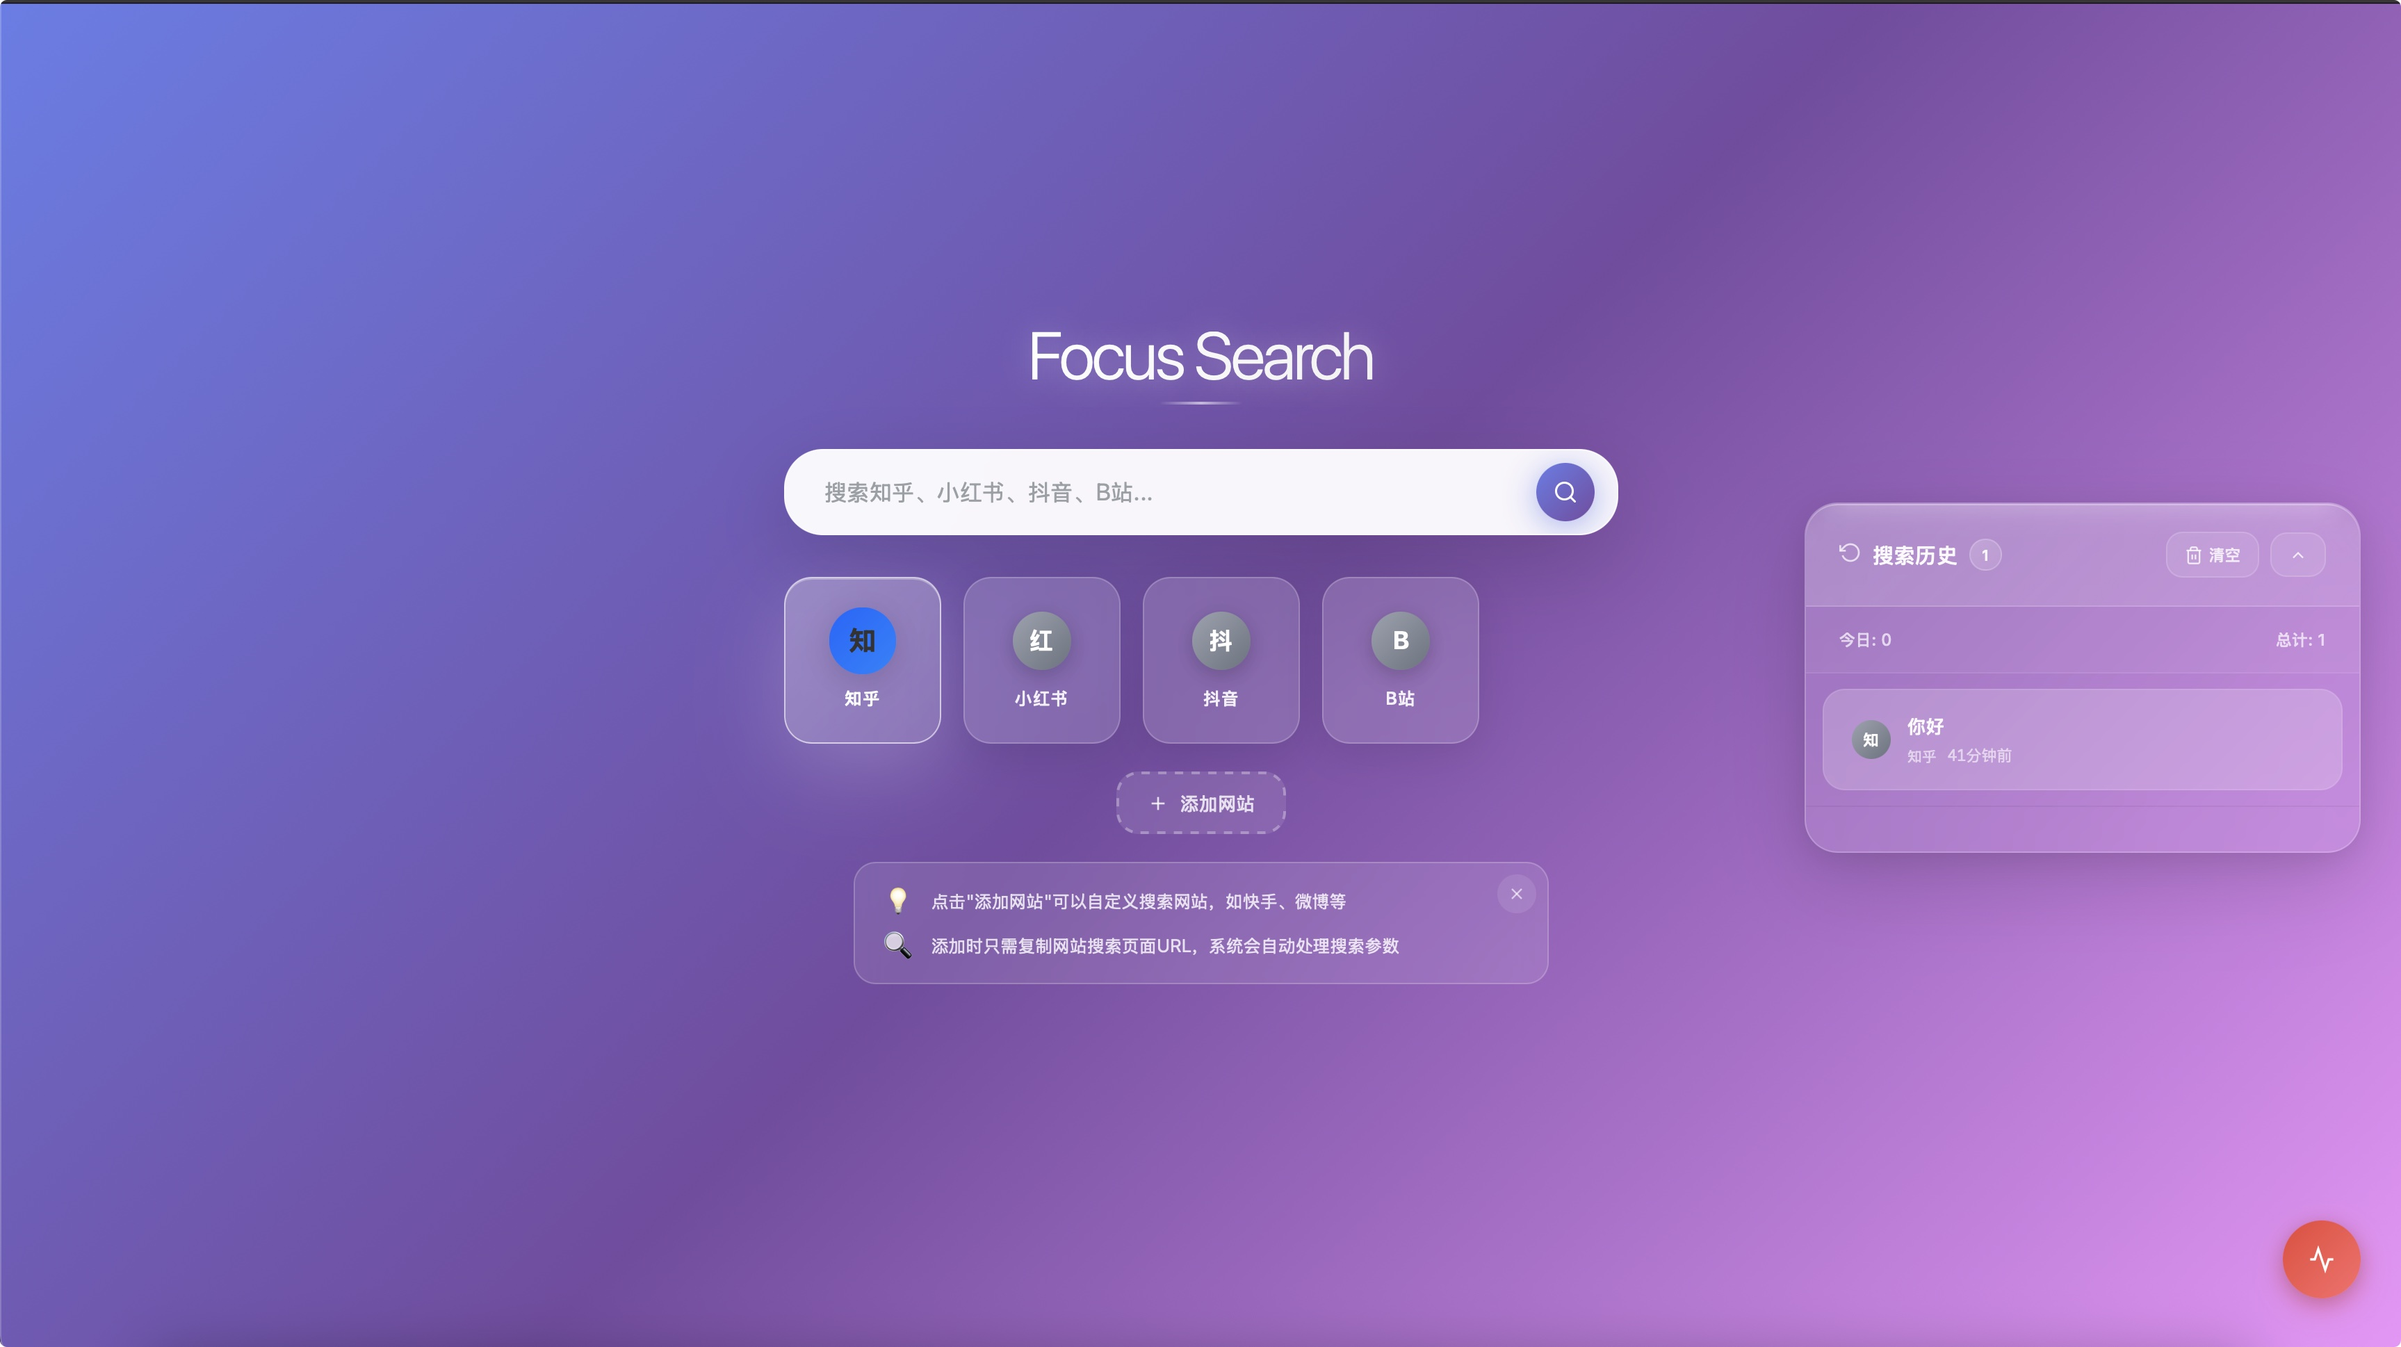
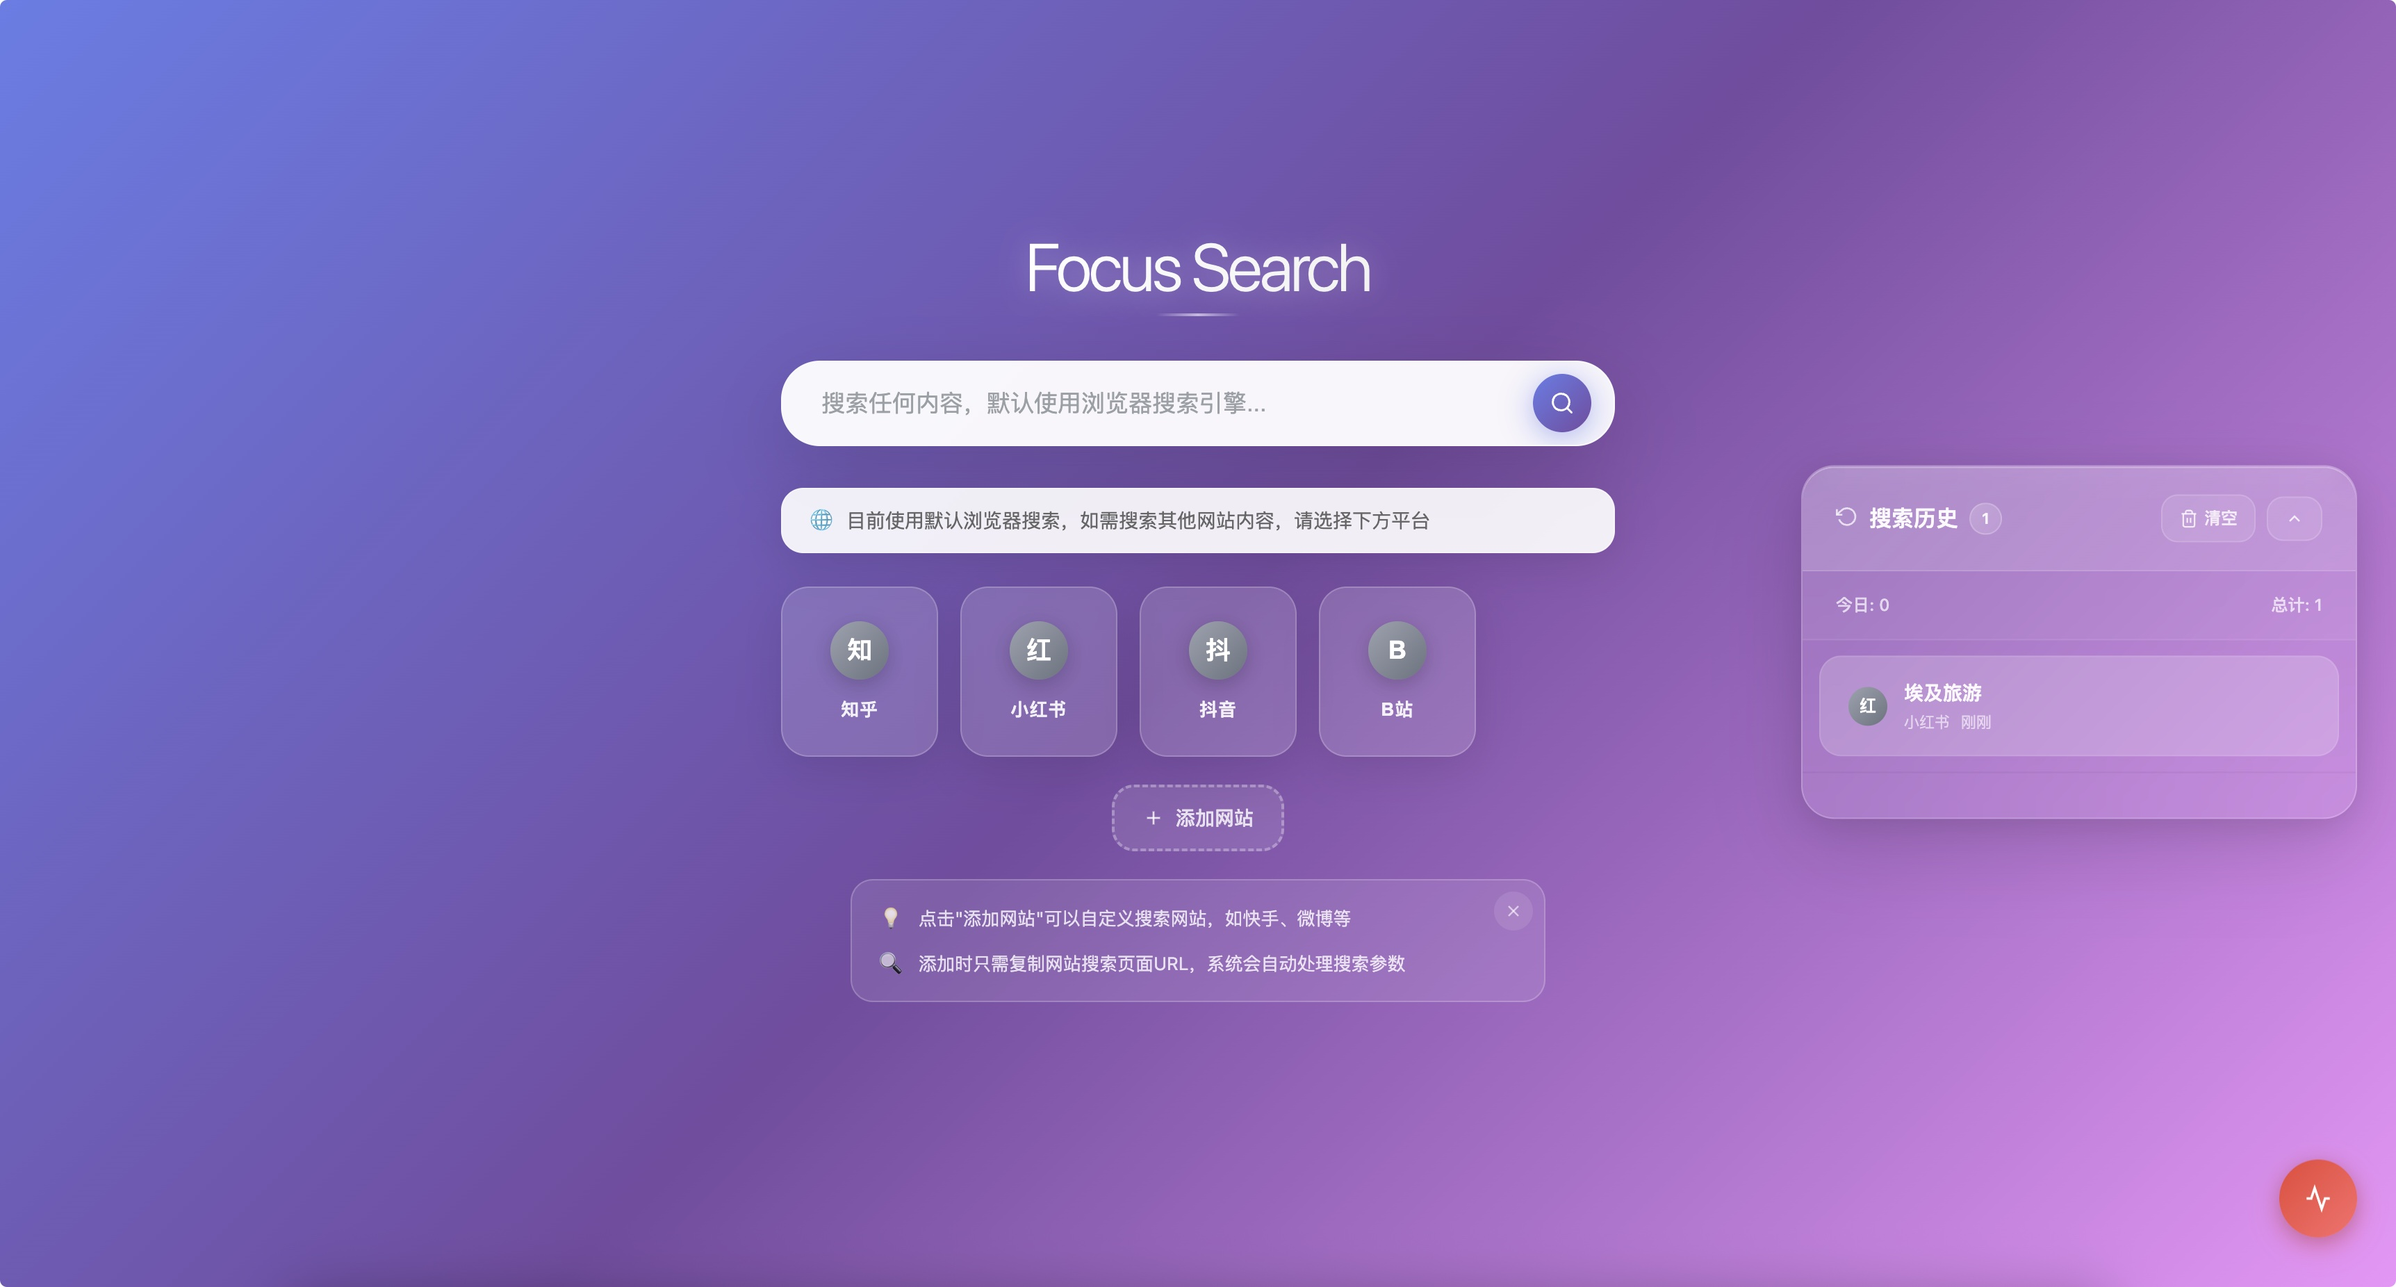
add default search

diff --git a/newtab.js b/newtab.js
@@ -24,8 +24,8 @@ let SEARCH_SITES = { ...DEFAULT_SITES };
 // DOM 元素
 let searchInput, searchBtn, clearAllBtn, historyList, historyPanel, historyContent, historyToggle, collapseBtn, historyCount, todayCount, totalCount, loadMoreBtn;
 let addSiteBtn, addSiteModal, modalClose, modalCancel, modalConfirm, siteNameInput, siteUrlInput, siteIconInput;
-let guideTips, hideTipsBtn, restoreDefaultBtn;
-let currentSite = 'zhihu';
+let guideTips, hideTipsBtn, restoreDefaultBtn, searchHint;
+let currentSite = null; // 默认不选择任何搜索平台，使用默认搜索引擎
 let selectedColor = '#ff6b35';
 
 // 初始化
@@ -71,6 +71,9 @@ function initializeElements() {
     guideTips = document.getElementById('guideTips');
     hideTipsBtn = document.getElementById('hideTipsBtn');
     restoreDefaultBtn = document.getElementById('restoreDefaultBtn');
+    
+    // 搜索提示框
+    searchHint = document.getElementById('searchHint');
 }
 
 // 加载自定义网站和处理隐藏的默认网站
@@ -90,13 +93,8 @@ function loadCustomSites() {
         // 合并可见的默认网站和自定义网站
         SEARCH_SITES = { ...visibleDefaultSites, ...customSites };
         
-        // 如果当前选中的网站被隐藏了，切换到第一个可用的网站
-        if (!SEARCH_SITES[currentSite]) {
-            const availableSites = Object.keys(SEARCH_SITES);
-            if (availableSites.length > 0) {
-                currentSite = availableSites[0];
-            }
-        }
+        // 保持默认状态：不选择任何网站
+        currentSite = null;
         
         renderSiteGrid();
     });
@@ -130,7 +128,7 @@ function renderSiteGrid() {
 function updateActiveState() {
     document.querySelectorAll('.site-card').forEach(btn => {
         const icon = btn.querySelector('.site-icon');
-        if (btn.dataset.site === currentSite) {
+        if (btn.dataset.site === currentSite && currentSite !== null) {
             btn.classList.add('active');
             if (icon.classList.contains('custom-site-icon')) {
                 const originalColor = icon.dataset.originalColor;
@@ -145,6 +143,28 @@ function updateActiveState() {
             }
         }
     });
+    
+    // 更新搜索提示框
+    updateSearchHint();
+}
+
+// 更新搜索提示框
+function updateSearchHint() {
+    if (!searchHint) return;
+    
+    const hintText = searchHint.querySelector('.hint-text');
+    const hintIcon = searchHint.querySelector('.hint-icon');
+    
+    if (currentSite && SEARCH_SITES[currentSite]) {
+        // 选择了特定平台
+        const siteName = SEARCH_SITES[currentSite].name;
+        hintText.textContent = `当前搜索平台：${siteName}，点击其他平台可切换搜索`;
+        hintIcon.textContent = '🎯';
+    } else {
+        // 使用默认搜索
+        hintText.textContent = '目前使用默认浏览器搜索，如需搜索其他网站内容，请选择下方平台';
+        hintIcon.textContent = '🌐';
+    }
 }
 
 // 创建自定义网站卡片
@@ -213,6 +233,9 @@ function setupSiteCardListeners() {
             
             // 更新当前选择的网站
             currentSite = this.dataset.site;
+            
+            // 更新搜索提示框
+            updateSearchHint();
         });
     });
 }
@@ -520,21 +543,36 @@ function performSearch() {
         return;
     }
     
-    const siteConfig = SEARCH_SITES[currentSite];
-    
-    // URL 编码关键词
-    const encodedKeyword = encodeURIComponent(keyword);
     let searchUrl;
+    let siteName;
+    let siteKey;
     
-    // 处理不同的URL格式
-    if (siteConfig.url.includes('{keyword}')) {
-        searchUrl = siteConfig.url.replace('{keyword}', encodedKeyword);
+    // 检查是否有选中的搜索平台
+    const activeButton = document.querySelector('.site-card.active');
+    
+    if (activeButton && currentSite && SEARCH_SITES[currentSite]) {
+        // 使用选定的搜索平台
+        const siteConfig = SEARCH_SITES[currentSite];
+        const encodedKeyword = encodeURIComponent(keyword);
+        
+        // 处理不同的URL格式
+        if (siteConfig.url.includes('{keyword}')) {
+            searchUrl = siteConfig.url.replace('{keyword}', encodedKeyword);
+        } else {
+            searchUrl = siteConfig.url + encodedKeyword;
+        }
+        siteName = siteConfig.name;
+        siteKey = currentSite;
     } else {
-        searchUrl = siteConfig.url + encodedKeyword;
+        // 使用默认搜索引擎（Google）
+        const encodedKeyword = encodeURIComponent(keyword);
+        searchUrl = `https://www.google.com/search?q=${encodedKeyword}`;
+        siteName = 'Google';
+        siteKey = 'google';
     }
     
     // 保存搜索记录
-    saveSearchRecord(keyword, currentSite, siteConfig.name);
+    saveSearchRecord(keyword, siteKey, siteName);
     
     // 在当前标签页打开搜索结果
     window.location.href = searchUrl;

diff --git a/safari-newtab.js b/safari-newtab.js
@@ -86,7 +86,7 @@ let SEARCH_SITES = { ...DEFAULT_SITES };
 let searchInput, searchBtn, clearAllBtn, historyList, historyPanel, historyContent, historyToggle, collapseBtn, historyCount, todayCount, totalCount, loadMoreBtn;
 let addSiteBtn, addSiteModal, modalClose, modalCancel, modalConfirm, siteNameInput, siteUrlInput, siteIconInput;
 let guideTips, hideTipsBtn, restoreDefaultBtn;
-let currentSite = 'zhihu';
+let currentSite = null; // 默认不选择任何搜索平台，使用默认搜索引擎
 let selectedColor = '#ff6b35';
 
 // 初始化
@@ -151,13 +151,8 @@ function loadCustomSites() {
         // 合并可见的默认网站和自定义网站
         SEARCH_SITES = { ...visibleDefaultSites, ...customSites };
         
-        // 如果当前选中的网站被隐藏了，切换到第一个可用的网站
-        if (!SEARCH_SITES[currentSite]) {
-            const availableSites = Object.keys(SEARCH_SITES);
-            if (availableSites.length > 0) {
-                currentSite = availableSites[0];
-            }
-        }
+        // 保持默认状态：不选择任何网站
+        currentSite = null;
         
         renderSiteGrid();
     });
@@ -191,7 +186,7 @@ function renderSiteGrid() {
 function updateActiveState() {
     document.querySelectorAll('.site-card').forEach(btn => {
         const icon = btn.querySelector('.site-icon');
-        if (btn.dataset.site === currentSite) {
+        if (btn.dataset.site === currentSite && currentSite !== null) {
             btn.classList.add('active');
             if (icon.classList.contains('custom-site-icon')) {
                 const originalColor = icon.dataset.originalColor;
@@ -581,21 +576,36 @@ function performSearch() {
         return;
     }
     
-    const siteConfig = SEARCH_SITES[currentSite];
-    
-    // URL 编码关键词
-    const encodedKeyword = encodeURIComponent(keyword);
     let searchUrl;
+    let siteName;
+    let siteKey;
     
-    // 处理不同的URL格式
-    if (siteConfig.url.includes('{keyword}')) {
-        searchUrl = siteConfig.url.replace('{keyword}', encodedKeyword);
+    // 检查是否有选中的搜索平台
+    const activeButton = document.querySelector('.site-card.active');
+    
+    if (activeButton && currentSite && SEARCH_SITES[currentSite]) {
+        // 使用选定的搜索平台
+        const siteConfig = SEARCH_SITES[currentSite];
+        const encodedKeyword = encodeURIComponent(keyword);
+        
+        // 处理不同的URL格式
+        if (siteConfig.url.includes('{keyword}')) {
+            searchUrl = siteConfig.url.replace('{keyword}', encodedKeyword);
+        } else {
+            searchUrl = siteConfig.url + encodedKeyword;
+        }
+        siteName = siteConfig.name;
+        siteKey = currentSite;
     } else {
-        searchUrl = siteConfig.url + encodedKeyword;
+        // 使用默认搜索引擎（Google）
+        const encodedKeyword = encodeURIComponent(keyword);
+        searchUrl = `https://www.google.com/search?q=${encodedKeyword}`;
+        siteName = 'Google';
+        siteKey = 'google';
     }
     
     // 保存搜索记录
-    saveSearchRecord(keyword, currentSite, siteConfig.name);
+    saveSearchRecord(keyword, siteKey, siteName);
     
     // 在当前标签页打开搜索结果
     window.location.href = searchUrl;

diff --git a/newtab.html b/newtab.html
@@ -16,7 +16,7 @@
         <!-- 中央搜索区域 -->
         <div class="search-container">
             <div class="search-box">
-                <input type="text" id="searchInput" placeholder="搜索知乎、小红书、抖音、B站..." autocomplete="off" />
+                <input type="text" id="searchInput" placeholder="搜索任何内容，默认使用浏览器搜索引擎..." autocomplete="off" />
                 <button id="searchBtn" class="search-button">
                     <svg width="18" height="18" viewBox="0 0 24 24" fill="none">
                         <path d="M21 21L16.5 16.5M19 11C19 15.4183 15.4183 19 11 19C6.58172 19 3 15.4183 3 11C3 6.58172 6.58172 3 11 3C15.4183 3 19 6.58172 19 11Z" stroke="currentColor" stroke-width="2" stroke-linecap="round" stroke-linejoin="round"/>
@@ -24,9 +24,17 @@
                 </button>
             </div>
             
+            <!-- 搜索提示框 -->
+            <div class="search-hint" id="searchHint">
+                <div class="hint-content">
+                    <span class="hint-icon">🌐</span>
+                    <span class="hint-text">当前使用默认搜索引擎，如需搜索特定网站内容，请选择下方平台</span>
+                </div>
+            </div>
+            
             <!-- 搜索网站选择 -->
             <div class="site-grid">
-                <button class="site-card active" data-site="zhihu">
+                <button class="site-card" data-site="zhihu">
                     <div class="site-icon zhihu-icon">知</div>
                     <span class="site-name">知乎</span>
                     <button class="delete-site-btn" data-site="zhihu">

diff --git a/safari-newtab.html b/safari-newtab.html
@@ -16,7 +16,7 @@
         <!-- 中央搜索区域 -->
         <div class="search-container">
             <div class="search-box">
-                <input type="text" id="searchInput" placeholder="搜索知乎、小红书、抖音、B站..." autocomplete="off" />
+                <input type="text" id="searchInput" placeholder="搜索任何内容，默认使用浏览器搜索引擎..." autocomplete="off" />
                 <button id="searchBtn" class="search-button">
                     <svg width="18" height="18" viewBox="0 0 24 24" fill="none">
                         <path d="M21 21L16.5 16.5M19 11C19 15.4183 15.4183 19 11 19C6.58172 19 3 15.4183 3 11C3 6.58172 6.58172 3 11 3C15.4183 3 19 6.58172 19 11Z" stroke="currentColor" stroke-width="2" stroke-linecap="round" stroke-linejoin="round"/>
@@ -24,9 +24,17 @@
                 </button>
             </div>
             
+            <!-- 搜索提示框 -->
+            <div class="search-hint" id="searchHint">
+                <div class="hint-content">
+                    <span class="hint-icon">🌐</span>
+                    <span class="hint-text">当前使用默认搜索引擎，如需搜索特定网站内容，请选择下方平台</span>
+                </div>
+            </div>
+            
             <!-- 搜索网站选择 -->
             <div class="site-grid">
-                <button class="site-card active" data-site="zhihu">
+                <button class="site-card" data-site="zhihu">
                     <div class="site-icon zhihu-icon">知</div>
                     <span class="site-name">知乎</span>
                     <button class="delete-site-btn" data-site="zhihu">

diff --git a/newtab.css b/newtab.css
@@ -139,6 +139,42 @@ html, body {
     box-shadow: 0 6px 20px rgba(102, 126, 234, 0.6);
 }
 
+/* 搜索提示框 */
+.search-hint {
+    margin-bottom: 20px;
+    padding: 12px 20px;
+    background: rgba(255, 255, 255, 0.9);
+    border-radius: 16px;
+    border: 1px solid rgba(255, 255, 255, 0.3);
+    backdrop-filter: blur(10px);
+    box-shadow: 0 8px 32px rgba(0,0,0,0.1);
+    transition: all 0.3s cubic-bezier(0.16, 1, 0.3, 1);
+}
+
+.search-hint.hidden {
+    opacity: 0;
+    transform: translateY(-10px);
+    pointer-events: none;
+}
+
+.hint-content {
+    display: flex;
+    align-items: center;
+    gap: 10px;
+    font-size: 14px;
+    color: #666;
+}
+
+.hint-icon {
+    font-size: 16px;
+    flex-shrink: 0;
+}
+
+.hint-text {
+    flex: 1;
+    line-height: 1.4;
+}
+
 /* 网站选择卡片 - 新设计 */
 .site-grid {
     display: grid;

diff --git a/README.md b/README.md
@@ -32,3 +32,62 @@
 - 同样的搜索功能
 - 适配 Safari 扩展规范
 - 保持一致的用户体验
+
+## ✨ 功能特性
+
+🌐 **智能搜索引擎**: 默认使用浏览器搜索引擎（如Google），避免被平台推荐算法干扰
+
+🔍 **多平台选择**: 按需选择知乎、小红书、百度等热门中文平台进行专项搜索
+
+📱 **简洁界面**: 干净的搜索界面，无广告无干扰，专注搜索体验
+
+📚 **搜索历史**: 自动保存搜索记录，支持快速重复搜索
+
+⚡ **快捷操作**: 点击扩展图标即可快速搜索
+
+🔒 **隐私保护**: 所有数据本地存储，不上传任何信息
+
+## 🚀 安装说明
+
+### Chrome 浏览器安装
+
+**方式一：开发者模式安装（推荐）**
+1. 下载或克隆本项目到本地
+2. 打开 Chrome 浏览器，访问 `chrome://extensions/`
+3. 开启右上角的「开发者模式」开关
+4. 点击「加载已解压的扩展程序」
+5. 选择项目文件夹
+6. 安装完成！扩展图标会出现在工具栏
+
+**方式二：Chrome Web Store**
+> 正在申请上架中，敬请期待
+
+### Safari 浏览器安装
+1. 下载 Safari 版本文件
+2. 打开 Safari 偏好设置 → 扩展
+3. 开启「允许未签名扩展」
+4. 拖拽扩展文件到 Safari
+5. 启用 Focus Search 扩展
+
+## 📖 使用方法
+
+### 智能搜索模式
+**默认搜索**：
+1. **打开扩展**：点击浏览器工具栏中的 Focus Search 图标
+2. **直接搜索**：在搜索框中输入任何内容，直接按回车
+3. **智能跳转**：自动使用默认搜索引擎（如Google），避免平台推荐干扰
+
+**专项搜索**：
+1. **选择平台**：点击下方的知乎、小红书、百度等按钮
+2. **输入关键词**：在搜索框中输入要搜索的内容  
+3. **开始搜索**：按回车或点击搜索按钮，直达对应平台搜索结果页
+
+### 搜索历史管理
+- **查看历史**：点击右上角历史记录按钮查看搜索记录
+- **重复搜索**：点击历史记录中的任一条目快速重新搜索
+- **删除记录**：支持删除单条记录或清空所有历史
+
+### 快捷键操作
+- 点击扩展图标快速打开搜索界面
+- 支持键盘回车键确认搜索
+- ESC 键关闭弹窗界面
